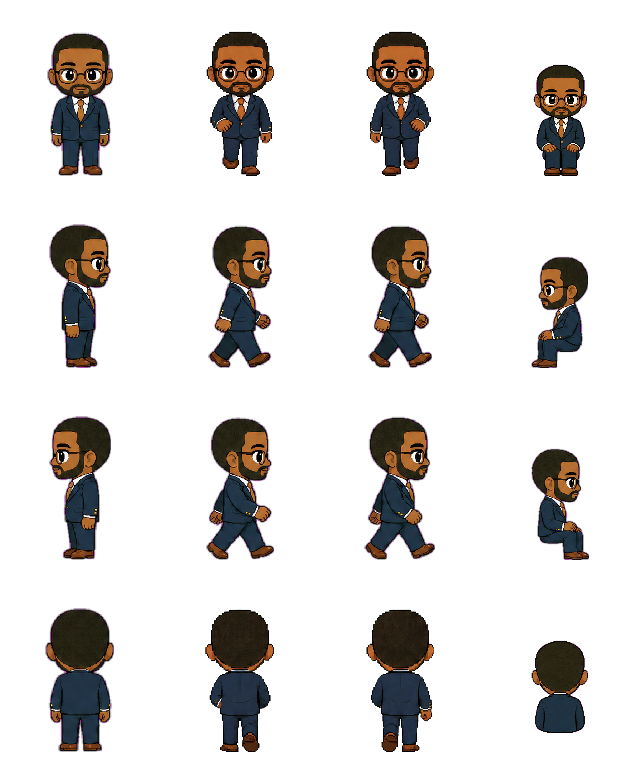
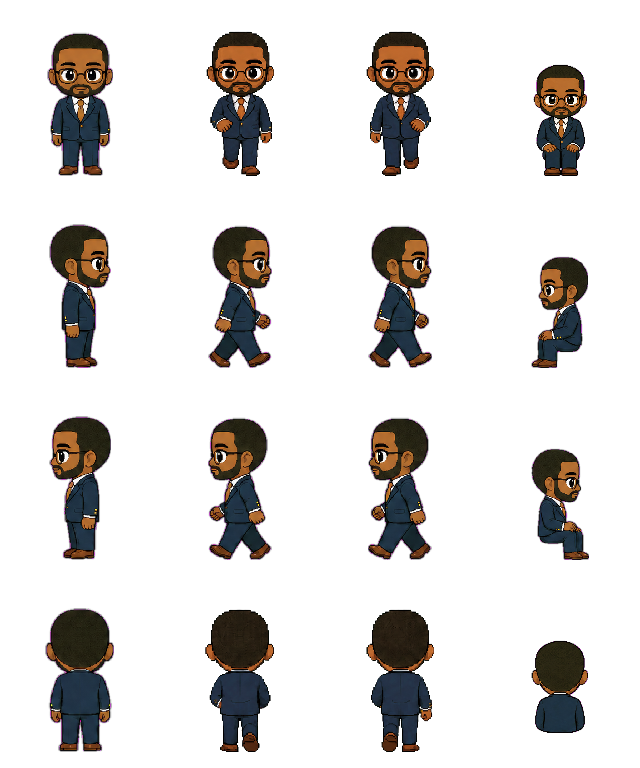
fix: improve 2d office character readability (#12)

Changed region(s): [[0.5625, 0.5625, 0.6875, 0.75], [0.3125, 0.5625, 0.4375, 0.75]]

diff --git a/src/research/officeGameAgent.ts b/src/research/officeGameAgent.ts
@@ -7,7 +7,7 @@ import {
   type Texture,
 } from "pixi.js";
 import type { Locale } from "../lib/i18n";
-import { ACTOR_ATLAS } from "./officeActorAtlas";
+import { ACTOR_ATLAS, actorDisplayScale } from "./officeActorAtlas";
 import { officeAgentAssetPath } from "./officeAgentAssets";
 import { type AnimationKey, animationKey } from "./officeGameAnimations";
 import {
@@ -35,6 +35,17 @@ export type MutableAgentDisplayRuntime = {
   readonly label: Container;
   currentAnimation: AnimationKey;
 };
+
+function makeActorGroundShadow(): Graphics {
+  return new Graphics()
+    .ellipse(
+      0,
+      -1,
+      ACTOR_ATLAS.readability.shadowRadiusX,
+      ACTOR_ATLAS.readability.shadowRadiusY,
+    )
+    .fill({ color: 0x081018, alpha: ACTOR_ATLAS.readability.shadowAlpha });
+}
 
 function makeLabel(text: string): Container {
   const root = new Container();
@@ -65,6 +76,7 @@ function playAnimation(
   state: OfficeRenderActor,
 ): void {
   const key = animationKey(state.animation, state.facing);
+  runtime.sprite.scale.set(actorDisplayScale(state.animation));
   if (runtime.currentAnimation === key) return;
   runtime.currentAnimation = key;
   runtime.sprite.textures = [...runtime.clips[key]];
@@ -88,10 +100,11 @@ export async function createAgentRuntime(
     ACTOR_ATLAS.footPivot.x / ACTOR_ATLAS.frame.width,
     ACTOR_ATLAS.footPivot.y / ACTOR_ATLAS.frame.height,
   );
-  sprite.scale.set(ACTOR_ATLAS.displayScale);
+  sprite.scale.set(actorDisplayScale("idle"));
   sprite.roundPixels = true;
   const body = new Container();
-  body.addChild(sprite);
+  const shadow = makeActorGroundShadow();
+  body.addChild(shadow, sprite);
   const ui = new Container();
   const label = makeLabel(member.name[locale]);
   const bubble = createProgressBubble();

diff --git a/src/research/officeAgentAssets.test.ts b/src/research/officeAgentAssets.test.ts
@@ -31,6 +31,30 @@ function frameBounds(image: PNG, row: number, column: number) {
   };
 }
 
+function profileSkinCenter(image: PNG, row: number, column: number): number {
+  let weightedX = 0;
+  let skinPixels = 0;
+  for (let y = 20; y < 105; y += 1) {
+    for (let x = 0; x < 160; x += 1) {
+      const offset = ((row * 192 + y) * image.width + column * 160 + x) * 4;
+      const red = image.data[offset] ?? 0;
+      const green = image.data[offset + 1] ?? 0;
+      const blue = image.data[offset + 2] ?? 0;
+      const alpha = image.data[offset + 3] ?? 0;
+      const isSkin =
+        alpha > 180 &&
+        red > 105 &&
+        red > green * 1.2 &&
+        green > blue * 0.75 &&
+        blue < 120;
+      if (!isSkin) continue;
+      weightedX += x;
+      skinPixels += 1;
+    }
+  }
+  return weightedX / skinPixels;
+}
+
 describe("office v9 generated actor assets", () => {
   it("ships one normalized atlas for every manifest actor", () => {
     for (const member of OFFICE_SCENE_MANIFEST.roster) {
@@ -46,6 +70,21 @@ describe("office v9 generated actor assets", () => {
       expect(
         image.data.some((channel, index) => index % 4 === 3 && channel > 0),
       ).toBe(true);
+    }
+  });
+
+  it("keeps every Noah left-walk frame facing left", () => {
+    const image = PNG.sync.read(
+      readFileSync(
+        resolve(
+          process.cwd(),
+          "public/research/office-v9/agents/financial.png",
+        ),
+      ),
+    );
+
+    for (const column of [0, 1, 2]) {
+      expect(profileSkinCenter(image, 2, column)).toBeLessThan(80);
     }
   });
 

diff --git a/src/research/officeActorAtlas.test.ts b/src/research/officeActorAtlas.test.ts
@@ -1,6 +1,7 @@
 import { describe, expect, it } from "vitest";
 import {
   ACTOR_ATLAS,
+  actorDisplayScale,
   actorFrame,
   actorWalkColumns,
   validateActorAtlas,
@@ -18,7 +19,14 @@ describe("office actor atlas", () => {
   });
 
   it("uses the legible production world scale", () => {
-    expect(ACTOR_ATLAS.displayScale).toBe(0.46);
+    expect(ACTOR_ATLAS.displayScale).toBe(0.53);
+    expect(actorDisplayScale("idle")).toBe(0.53);
+    expect(actorDisplayScale("walk")).toBe(0.53);
+    expect(actorDisplayScale("sit")).toBeCloseTo(0.594);
+    expect(ACTOR_ATLAS.readability).toMatchObject({
+      shadowRadiusX: 22,
+      shadowRadiusY: 6.5,
+    });
   });
 
   it("maps seated side profiles toward their named direction", () => {

diff --git a/src/research/officeRoomPlaques.test.ts b/src/research/officeRoomPlaques.test.ts
@@ -32,6 +32,18 @@ describe("office room plaques", () => {
     }
   });
 
+  it("uses one top-left room inset and one plaque size", () => {
+    const { cellSize } = OFFICE_SCENE_MANIFEST.world;
+    for (const plaque of OFFICE_ROOM_PLAQUES) {
+      const room = OFFICE_SCENE_MANIFEST.rooms[plaque.id].bounds;
+      expect(plaque.position).toMatchObject({
+        x: room.min.x * cellSize + 18,
+        y: room.min.y * cellSize + 16,
+      });
+      expect(plaque.size).toMatchObject({ width: 250, height: 66 });
+    }
+  });
+
   it("reserves body clearance around every department interaction anchor", () => {
     const { cellSize } = OFFICE_SCENE_MANIFEST.world;
     const actorHalfWidth = 28;

diff --git a/src/research/officeRendererUiLayout.ts b/src/research/officeRendererUiLayout.ts
@@ -1,4 +1,4 @@
-import { ACTOR_ATLAS } from "./officeActorAtlas";
+import { ACTOR_ATLAS, actorDisplayScale } from "./officeActorAtlas";
 import { bubbleDimensions } from "./officeGameBubble";
 import type {
   OfficeRenderActor,
@@ -189,7 +189,7 @@ function contextFor(
   const { camera } = projection;
   const x = camera.x + actor.world.x * camera.scale;
   const y = camera.y + actor.world.y * camera.scale;
-  const spriteScale = ACTOR_ATLAS.displayScale * camera.scale;
+  const spriteScale = actorDisplayScale(actor.animation) * camera.scale;
   const bodyBounds = Object.freeze({
     left: x - ACTOR_ATLAS.footPivot.x * spriteScale,
     top: y - ACTOR_ATLAS.footPivot.y * spriteScale,

diff --git a/src/research/officeEntityGeometry.ts b/src/research/officeEntityGeometry.ts
@@ -38,9 +38,9 @@ export const OFFICE_ENTITY_GEOMETRY = Object.freeze({
     }),
   }),
   roomSigns: Object.freeze({
-    market: Object.freeze({ x: 50, y: 48, width: 238, height: 66 }),
-    chair: Object.freeze({ x: 568, y: 48, width: 250, height: 66 }),
-    company: Object.freeze({ x: 1094, y: 48, width: 238, height: 66 }),
+    market: Object.freeze({ x: 50, y: 48, width: 250, height: 66 }),
+    chair: Object.freeze({ x: 562, y: 48, width: 250, height: 66 }),
+    company: Object.freeze({ x: 946, y: 48, width: 250, height: 66 }),
     financial: Object.freeze({ x: 50, y: 560, width: 250, height: 66 }),
     risk: Object.freeze({ x: 754, y: 560, width: 250, height: 66 }),
   }),

diff --git a/src/research/officeActorAtlas.ts b/src/research/officeActorAtlas.ts
@@ -13,9 +13,24 @@ export const ACTOR_ATLAS = {
   columns: 4,
   rows: 4,
   footPivot: { x: 80, y: 178 },
-  displayScale: 0.46,
+  displayScale: 0.53,
+  seatedScaleMultiplier: 1.12,
+  readability: {
+    shadowRadiusX: 22,
+    shadowRadiusY: 6.5,
+    shadowAlpha: 0.34,
+  },
   safeInset: 10,
 } as const;
+
+export function actorDisplayScale(
+  mode: ActorAnimationMode,
+  seatedScaleMultiplier: number = ACTOR_ATLAS.seatedScaleMultiplier,
+): number {
+  return (
+    ACTOR_ATLAS.displayScale * (mode === "sit" ? seatedScaleMultiplier : 1)
+  );
+}
 
 const walkRows: Readonly<Record<Direction, number>> = {
   down: 0,
